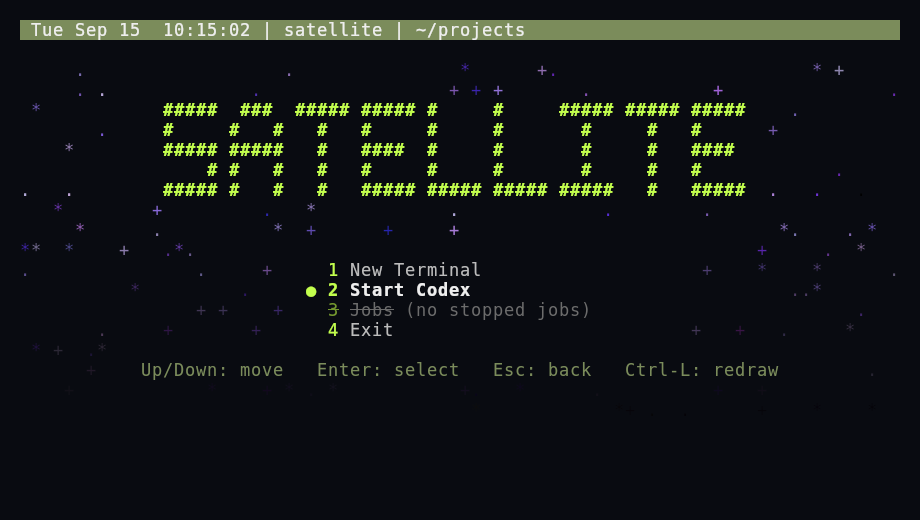
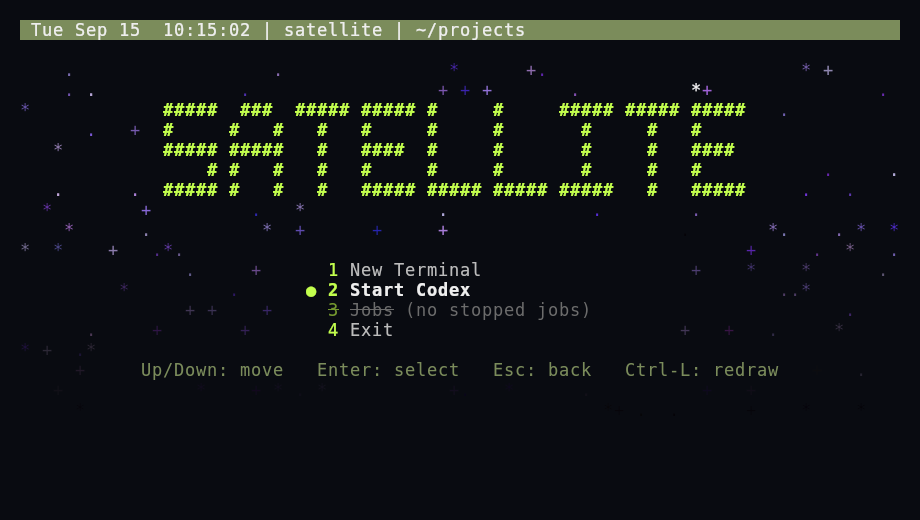
Advance twinkle timing and multiply spawn frequency

diff --git a/README.md b/README.md
@@ -88,13 +88,16 @@ only changed star and accent cells between foreground redraws. No background wor
 extra runtime dependency is needed. The title, option block, arrow, hints, and
 status bar remain protected from stars; viewport changes rebuild the field.
 
-Twinkles start one at a time, with random opportunities spaced 1–500 ms apart.
+Twinkles start one at a time, with random opportunities spaced 1–333 ms apart
+at the default 1.5× rate. The rate setting scales opportunity frequency
+multiplicatively, preserving the probability curve instead of clipping its peaks.
 Their fades may overlap, but a frame never spawns a group or catches up missed births.
 They ease from dark to bright white over 120 ms, changing from `.` to `+` to `*`,
 then reverse over 780 ms and disappear. A twinkle replaces any star beneath it
 permanently. A smooth, sine-shaped probability ranges from 100% between sweeps
-to 20% at the shimmer midpoint. Births become rarer during the sweep, while
-existing twinkles keep fading through it.
+to 20% at its trough. The entire curve leads the shimmer midpoint by 500 ms,
+so births lessen sooner and recover earlier. Births remain rarer during the
+sweep, while existing twinkles keep fading through it.
 
 Every four seconds, a one-second diagonal band travels from the top left to the
 bottom right. Stars quickly approach white, then slowly regain saturation with
@@ -128,6 +131,8 @@ Override these settings in ignored `config.bash`, then source `.bashrc`:
 ```bash
 EZ_MENU_ANIMATE_STARS=1          # 0 restores stationary stars
 EZ_MENU_SWEEP_INTERVAL_MS=4000  # time between sweep starts
+EZ_MENU_TWINKLE_ADVANCE_MS=500  # lead relative to the sweep midpoint; 0 restores original timing
+EZ_MENU_TWINKLE_RATE_PERCENT=150 # 100 = original rate; 200 = 2x (range 1–1000)
 EZ_MENU_SWEEP_DURATION_MS=1000
 EZ_MENU_SWEEP_HUE_STEP=70       # degrees added per sweep
 EZ_MENU_STAR_SATURATION_MAX=800 # thousandths: 800 = 80%
